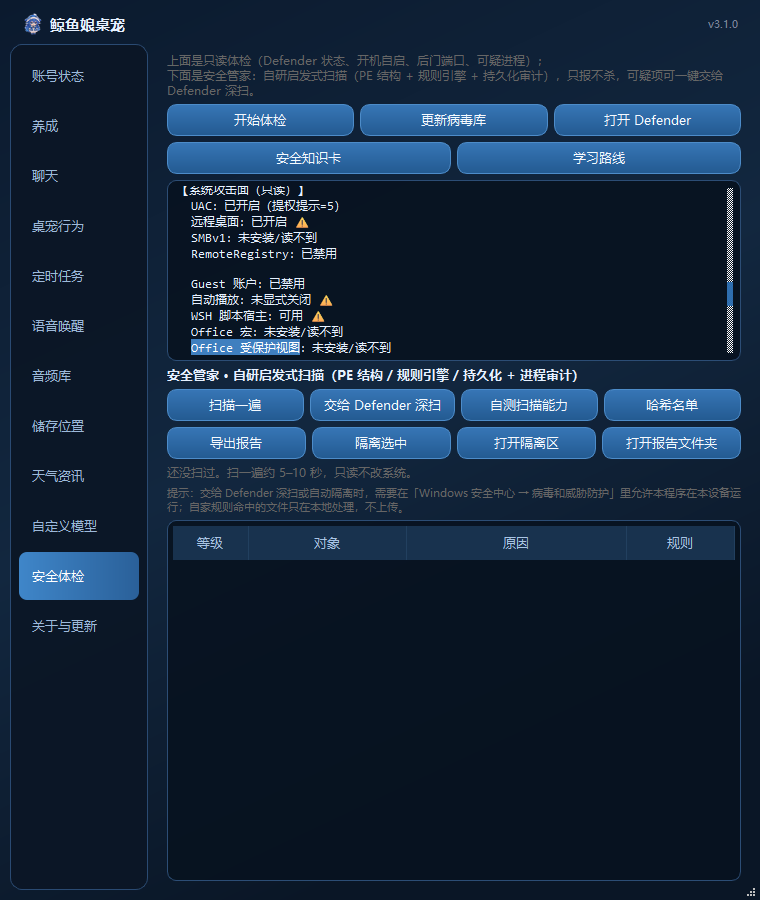
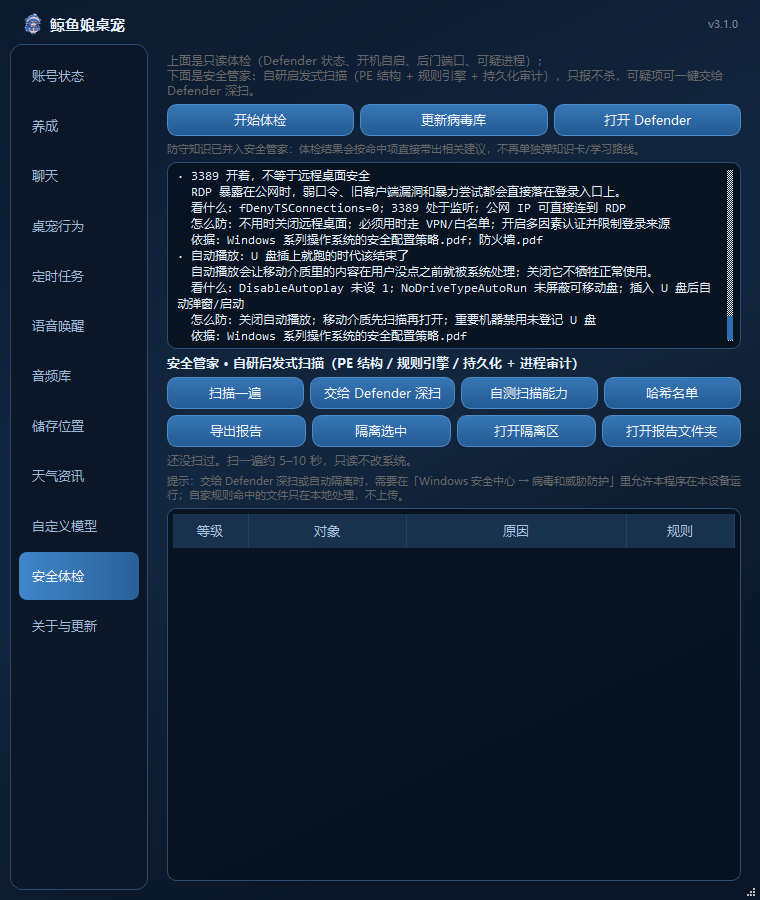
security: merge knowledge into guard, remove standalone cards/learning route

Changed region(s): [[0.2118, 0.1556, 0.9987, 0.6222]]

diff --git a/app/panel.py b/app/panel.py
@@ -5,7 +5,7 @@ import os
 
 from PySide6.QtCore import Qt, QThread, QTimer, QUrl, Signal
 from PySide6.QtGui import QColor, QDesktopServices, QIcon, QPixmap
-from PySide6.QtWidgets import (QCheckBox, QComboBox, QDialog, QFileDialog, QFormLayout,
+from PySide6.QtWidgets import (QCheckBox, QComboBox, QFileDialog, QFormLayout,
                                QGridLayout, QGroupBox, QHBoxLayout, QLabel,
                                QLineEdit, QListWidget, QListWidgetItem,
                                QPushButton, QScrollArea, QSizeGrip, QSlider,
@@ -18,8 +18,6 @@ import models_catalog
 import panel_v2
 import paths
 import persona as pers
-import security_cards
-import security_learning
 import theme
 import voice_tweak
 from api_access_ui import ApiAccessCard
@@ -3276,49 +3274,16 @@ class ControlPanel(QWidget):
             import security_cards
             cards = security_cards.relevant_cards(report, limit=2)
             if cards:
-                lines_ += ["", "【相关安全知识卡】"]
+                lines_ += ["", "【安全管家·相关防守知识】"]
                 for c in cards:
                     lines_.append(f"· {c['title']}")
                     lines_.append("  " + c["summary"])
+                    lines_.append("  看什么：" + "；".join(c["signals"]))
                     lines_.append("  怎么防：" + "；".join(c["defense"]))
+                    lines_.append("  依据：" + c["source"])
         except Exception:  # noqa: BLE001
             pass
         self.txt_scan.setPlainText("\n".join(lines_))
-
-    def _show_security_cards(self):
-        """P2：安全知识卡。只展示“看什么/怎么防”，不展示攻击步骤。"""
-        import security_cards
-        dlg = QDialog(self)
-        dlg.setWindowTitle("安全知识卡 · 防守视角")
-        dlg.resize(620, 620)
-        lay = QVBoxLayout(dlg)
-        txt = QTextEdit()
-        txt.setReadOnly(True)
-        txt.setStyleSheet("font-family:'Microsoft YaHei';font-size:12px;")
-        txt.setPlainText("\n\n".join(security_cards.card_text(c)
-                                    for c in security_cards.all_cards()))
-        lay.addWidget(txt, 1)
-        btn = QPushButton("关闭")
-        btn.clicked.connect(dlg.accept)
-        lay.addWidget(btn)
-        dlg.exec()
-
-    def _show_security_learning(self):
-        """P3：学习路线索引。只列标题/路径，不读正文，不提供操作步骤。"""
-        import security_learning
-        dlg = QDialog(self)
-        dlg.setWindowTitle("网络安全资料 · 学习路线索引")
-        dlg.resize(760, 640)
-        lay = QVBoxLayout(dlg)
-        txt = QTextEdit()
-        txt.setReadOnly(True)
-        txt.setStyleSheet("font-family:Consolas,'Microsoft YaHei';font-size:12px;")
-        txt.setPlainText(security_learning.route_text())
-        lay.addWidget(txt, 1)
-        btn = QPushButton("关闭")
-        btn.clicked.connect(dlg.accept)
-        lay.addWidget(btn)
-        dlg.exec()
 
     # ---- 账号 / 形态 ----
     def _on_form_change(self, idx: int):

diff --git a/app/panel_v2.py b/app/panel_v2.py
@@ -293,10 +293,10 @@ def tab_security(panel) -> QWidget:
         _btn("更新病毒库", panel._update_signatures),
         _btn("打开 Defender", panel._open_defender),
     ))
-    lay.addWidget(_row(
-        _btn("安全知识卡", panel._show_security_cards),
-        _btn("学习路线", panel._show_security_learning),
-    ))
+    tip_know = QLabel("防守知识已并入安全管家：体检结果会按命中项直接带出相关建议，不再单独弹知识卡/学习路线。")
+    tip_know.setWordWrap(True)
+    tip_know.setStyleSheet("color:#666;font-size:11px;")
+    lay.addWidget(tip_know)
     panel.txt_scan = QTextEdit()
     panel.txt_scan.setReadOnly(True)
     panel.txt_scan.setStyleSheet("font-family:Consolas,'Microsoft YaHei';font-size:12px;")

diff --git a/app/agentic_tools.py b/app/agentic_tools.py
@@ -17,17 +17,10 @@ def _load_cards():
     return security_cards.all_cards
 
 
-def _load_learning():
-    import security_learning
-    return security_learning.scan_library
-
-
 def build_registry() -> ToolRegistry:
     reg = ToolRegistry()
     reg.register(ToolSpec("security_posture", _load_posture, READ,
                           "只读检查 UAC/远程面/Guest/自动播放/Office/日志"))
     reg.register(ToolSpec("security_cards", _load_cards, READ,
-                          "返回防守侧安全知识卡"))
-    reg.register(ToolSpec("security_learning", _load_learning, READ,
-                          "扫描本地安全资料目录并返回路线索引"))
+                          "返回安全管家用的防守知识卡"))
     return reg

diff --git a/app/security_cards.py b/app/security_cards.py
@@ -1,8 +1,8 @@
 # -*- coding: utf-8 -*-
-"""安全知识卡：只写“看什么信号 + 怎么防”，不写攻击步骤、工具参数或 payload。
+"""安全管家知识：只写“看什么信号 + 怎么防”，不写攻击步骤、工具参数或 payload。
 
-这些卡来自 `F:\\数据` 安全资料的防守侧摘要，面向桌宠用户；任何一条都不应
-被当成渗透/入侵教程。课程标题索引由 `security_learning.py` 单独负责。
+这些卡来自安全资料的防守侧摘要，面向桌宠用户；任何一条都不应被当成
+渗透/入侵教程。安全页不再单独弹卡，由安全管家按体检命中项直接带出。
 """
 
 CARDS = [

diff --git a/tools/test_agentic_tools.py b/tools/test_agentic_tools.py
@@ -9,7 +9,7 @@ import agentic_tools
 from agentic_runtime import PermissionGate, ToolCall
 
 reg = agentic_tools.build_registry()
-assert {x["name"] for x in reg.describe()} == {"security_cards", "security_learning", "security_posture"}
+assert {x["name"] for x in reg.describe()} == {"security_cards", "security_posture"}
 assert "security_cards" not in sys.modules and "secscan" not in sys.modules
 cards = reg.call(ToolCall("security_cards"), PermissionGate())
 assert len(cards) >= 14 and "security_cards" in sys.modules

diff --git a/CHANGELOG.md b/CHANGELOG.md
@@ -17,8 +17,8 @@
 | 7 TTS 播放保持 | `AudioManager` 新增 `speechStarted / speechFinished`，只在 TTS `speech=True` 路径触发；`main.py` 接到 `EmotionBridge.tts_active()`，播放时把最近一条 `P_LLM` 延到 30 s，结束/打断恢复 4 s TTL；`_on_speech_finished()` 额外 4.3 s 后补 `P_AUTO`，避免脸停在最后一句 | `tools/test_emotion_bridge.py` 7/7 通过；0.5 s WAV `play_file=True started=1 finished=1`；**真实 Edge TTS 11.544 s**：`speechStarted/Finished` 各 1 次，播放中段 `P_LLM ttl=30.0`，结束后 `P_AUTO`；3D 日志两次 `Emotion: happy intensity=0.90 source=P_LLM face=smile`；截图 `docs/_3d_tts_sync_app_mid.png`、`_app_after.png` |
 | 8 2D 链路稳定性 | `audio_manager` 音频解码加 64 块上限、invalid buffer 立即退出；`main.py` 联网学习改用 `_WebRelearnBridge` 信号回主线程；`panel.append_chat` 隐藏时只进 pending、`refresh_panel` 合并同一轮刷新；`panel._tab_ambient` 改为切页懒加载天气，`shutdown_workers()` 退出时 quit/wait/terminate 天气/新闻/VL/迁移线程 | FakeDecoder 死循环测试调用 1 次退出；`build/test_panel_pending.py` 隐藏 61 条不增加、show 后 63 条；`tools/_perf_panel.py` open_panel 0.74 s / refresh 0.01 s；**Qt 退出 `0xC0000409` 根因已定位并修复**：`WeatherWorker` QThread 在面板构造时提前启动；`render_check` / `smoke_test` / 天气页退出均 exit 0 |
 | 9 安全资料落地（P0） | `security_posture()` 扩到 UAC / RDP / SMBv1 / RemoteRegistry / Guest / 自动播放 / Office 宏 / Office 受保护视图 / WSH / 事件日志；`build_report()` 把 Guest 启用、自动播放未关、Office“启用所有宏”、Office 受保护视图关闭、WSH 未禁用、Security 日志过小/循环覆盖并入 issues；Security 无权限只出 info，不伪造大小；安全页展示 WSH、Office 受保护视图、System/Application 日志；`guard_core` 新增 H016/H017/H018 | `tools/test_guard_core.py` 21 条规则：`fw_off.cmd→H017`、`log_clear.ps1→H016`、`uac_off.cmd→H018`，`clean.ps1` 0 条；真机 `UAC=开/consent=5`、`SMBv1=未安装`、`RemoteRegistry=4`、`Guest=已禁用`、`自动播放=未显式关闭`、`WSH=可用/未显式禁用`、`Office=未安装`、`System/Application=20MB Circular`；`Security` 日志非管理员读不到，界面提示权限；综合评分 `62/100` |
-| 10 安全知识卡 + 学习路线（P2/P3） | 新增 `app/security_cards.py` 14 张防守卡（UAC/RDP/SMBv1/Guest/自动播放/Office 宏+受保护视图/WSH/日志/木马/Rootkit/注入/Kali/DDoS/钓鱼）；新增 `app/security_learning.py` 按阶段索引本地资料；安全页新增“安全知识卡”“学习路线”按钮；卡里只有信号+防护+依据，无工具命令/payload | `tools/test_security_cards.py` 14 张字段完整、无 `sqlmap/msfconsole/meterpreter/mimikatz/nc -e/bash -i/hping3/loic`；`tools/test_security_learning.py` 索引 231 文件 / 9,222.6 MB / 7 阶段，输出“只索引标题和本地路径，不提供攻击步骤” |
-| 11 Agentic 薄层（v3.3.x 骨架，未接聊天） | `app/agentic_runtime.py` 新增懒加载注册表/权限门/有限步循环；`app/agentic_tools.py` 把安全体检、知识卡、学习路线注册成只读工具；不引入 LangChain/AutoGen，不预加载全部工具 | `tools/test_agentic_runtime.py` 通过：`describe` 不加载、read/write/dangerous 三态、`max_steps` 停止；`tools/test_agentic_tools.py` 通过：注册后 `security_cards`/`secscan` 不在 `sys.modules`，调用后才加载；本轮未接聊天主流程 |
+| 10 防守知识并入安全管家（P2，P3 取消） | `app/security_cards.py` 保留 14 张防守知识卡（UAC/RDP/SMBv1/Guest/自动播放/Office 宏+受保护视图/WSH/日志/木马/Rootkit/注入/Kali/DDoS/钓鱼）；安全页删除“安全知识卡”“学习路线”两个独立入口，体检结果末尾直接带出 2 张命中卡；`security_learning.py`、学习路线索引和独立弹窗已移除；卡里只有信号+防护+依据，无工具命令/payload | `tools/test_security_cards.py` 14 张字段完整、无 `sqlmap/msfconsole/meterpreter/mimikatz/nc -e/bash -i/hping3/loic`；安全页测试断言出现“安全管家·相关防守知识”，不再出现旧入口；原 `tools/test_security_learning.py` 已随模块删除 |
+| 11 Agentic 薄层（v3.3.x 骨架，未接聊天） | `app/agentic_runtime.py` 新增懒加载注册表/权限门/有限步循环；`app/agentic_tools.py` 把安全体检、防守知识注册成只读工具；不引入 LangChain/AutoGen，不预加载全部工具 | `tools/test_agentic_runtime.py` 通过：`describe` 不加载、read/write/dangerous 三态、`max_steps` 停止；`tools/test_agentic_tools.py` 通过：注册后 `security_cards`/`secscan` 不在 `sys.modules`，调用后才加载；本轮未接聊天主流程 |
 
 边界：三帧图集已能平滑交叉淡化，TTS 播放期间也能保持回复情绪，并用真实 11.544 s Edge TTS 跑通了声画同步；但 `intensity` 还没有幅度/时间曲线，gaze/body lean、ASR 仍未接，**本轮没有为了“继续”硬开新的 3D 功能**，只把验收计划写到 `docs/v3.2-next.md`。Agentic 薄层只是骨架，未接聊天主流程，权限弹窗/持久化 trace 都没有。细节见 `docs/3d-emotion-bus.md`、`docs/agentic-v3.3.md`。
 

diff --git a/docs/security-library-integration.md b/docs/security-library-integration.md
@@ -64,10 +64,10 @@
 
 每张卡带“来源书目/章节”，不复制整段原文，不提供攻击步骤。
 
-### P3 学习路径索引
+### P3 学习路径索引（已取消）
 
-把课程/文字资料按阶段做成“安全学习路线”索引：网络基础 → 攻击面认知 → Web 防御 → 系统面 → 恶意代码 → 流量/DDoS → 笔记。  
-只索引标题和本地路径，不把视频/PDF 打包进安装包，避免版权和体积问题；攻击面课程只列目录，不提取步骤。
+原计划把课程/文字资料按阶段做成独立“学习路线”索引；现按产品决定取消该模块，不再在安全页提供入口，也不再把外部课程目录当作桌宠功能展示。  
+理由：知识应该服务于安全管家的体检结论，而不是单开一个浏览资料的窗口；课程标题索引对普通用户价值低，且容易把注意力引向攻击面目录。原索引代码与测试已移除。
 
 ## 不建议落地
 
@@ -77,7 +77,7 @@
 
 ## 当前落地状态（2026-11-27 实测）
 
-P0 的 UAC/远程面/Guest/自动播放/Office 宏/受保护视图/WSH/事件日志均已接成只读检查，P1 三条规则、P2 知识卡、P3 路线索引也已落到代码；仍坚持“只报不改”。
+P0 的 UAC/远程面/Guest/自动播放/Office 宏/受保护视图/WSH/事件日志均已接成只读检查，P1 三条规则、P2 防守知识已落到代码；P3 学习路线模块已取消，知识并入安全管家。仍坚持“只报不改”。
 
 ### P0 安全体检
 
@@ -116,24 +116,21 @@ P0 的 UAC/远程面/Guest/自动播放/Office 宏/受保护视图/WSH/事件日
 
 `tools/test_guard_core.py` 21 条规则实测：`fw_off.cmd→H017`、`log_clear.ps1→H016`、`uac_off.cmd→H018`，干净样本 `0` 条。
 
-### P2 安全知识卡
+### P2 防守知识（并入安全管家）
 
-`app/security_cards.py` 已有 14 张防守侧卡片：
+`app/security_cards.py` 已有 14 张防守侧知识卡：
 
 - 基础面：UAC、RDP/3389、SMBv1、Guest、自动播放、Office 宏/受保护视图、WSH 脚本宿主、事件日志
 - 反扒经验：木马落地信号、Rootkit 驱动/服务异常、注入的输入边界、Kali 扫描痕迹、DDoS 流量洪峰、钓鱼/弱口令
 - 每张卡只有“看什么信号 / 怎么防 / 依据”，没有工具命令、payload、利用步骤
-- `panel` 安全页新增“安全知识卡”按钮；体检结果也会自动带 2 张相关卡
+- 安全页不再有独立“安全知识卡”按钮；`panel.refresh_scan()` 在体检结果末尾直接带出 2 张命中卡，标题为“安全管家·相关防守知识”
 - `tools/test_security_cards.py` 14 张卡字段完整，并断言不含 `sqlmap/msfconsole/meterpreter/mimikatz/nc -e/bash -i/hping3/loic`
 
-### P3 学习路线索引
+### P3 学习路线（已取消）
 
-`app/security_learning.py` 按目录扫描：
-
-- 01 基础 → 02 攻击面认知（只列课程标题） → 03 Web 防御 → 04 系统面 → 05 恶意代码 → 06 流量/DDoS → 07 笔记
-- 实测索引 `231` 个文件 / `9,222.6 MB` / `7` 个阶段；只读文件名、路径、大小，不读 PDF/视频正文
-- 安全页新增“学习路线”按钮；不把资料打包进安装包
-- `tools/test_security_learning.py` 通过，输出明确写“不提供攻击步骤”
+- 不再提供 `security_learning.py`、学习路线按钮和独立索引窗口；相关入口已从 `panel_v2` 删除
+- 原因：外部课程目录对普通用户价值低，且容易把注意力引向攻击面；防守知识只保留在安全管家的体检建议里
+- 原索引文档 `docs/security-learning-path.md` 一并移除，避免留下两套入口说明
 
 ### 仍未落地 / 已知边界
 
@@ -141,7 +138,7 @@ P0 的 UAC/远程面/Guest/自动播放/Office 宏/受保护视图/WSH/事件日
 - WSH、Office 受保护视图、Security 日志循环覆盖策略已接成只读检查；System/Application 日志大小/模式可读，Security 仍受权限限制。
 - v3.2 的 intensity 曲线、gaze/body lean、ASR 仍是路线项，本轮没有为了“继续”硬开新的 3D 功能；验收见 `docs/v3.2-next.md`。
 - 所有修复仍只给系统设置入口，不做一键改注册表。
-- 课程视频/PDF 都没打包进安装包，也没进 `knowledge.db`；P3 只是本地索引。
+- 课程视频/PDF 都没打包进安装包，也没进 `knowledge.db`；P3 学习路线已取消，不再提供目录索引。
 - “Kali/注入/木马/Rootkit/DDoS”只作为**防守识别卡**存在，不存攻击步骤，也不提供可执行工具链。
 
 ## 建议第一步

diff --git a/docs/agentic-v3.3.md b/docs/agentic-v3.3.md
@@ -14,7 +14,7 @@
 | 文件 | 职责 |
 |---|---|
 | `app/agentic_runtime.py` | 工具元数据、懒加载注册表、权限门、有限步循环 |
-| `app/agentic_tools.py` | 把现有只读能力（安全体检/知识卡/学习路线）注册成工具，**不提前 import 业务模块** |
+| `app/agentic_tools.py` | 把现有只读能力（安全体检/防守知识）注册成工具，**不提前 import 业务模块** |
 | `tools/test_agentic_runtime.py` | 懒加载计数、读/写/危险三态、循环停止条件 |
 | `tools/test_agentic_tools.py` | `describe()` 不加载业务模块，`call()` 才加载 |
 
